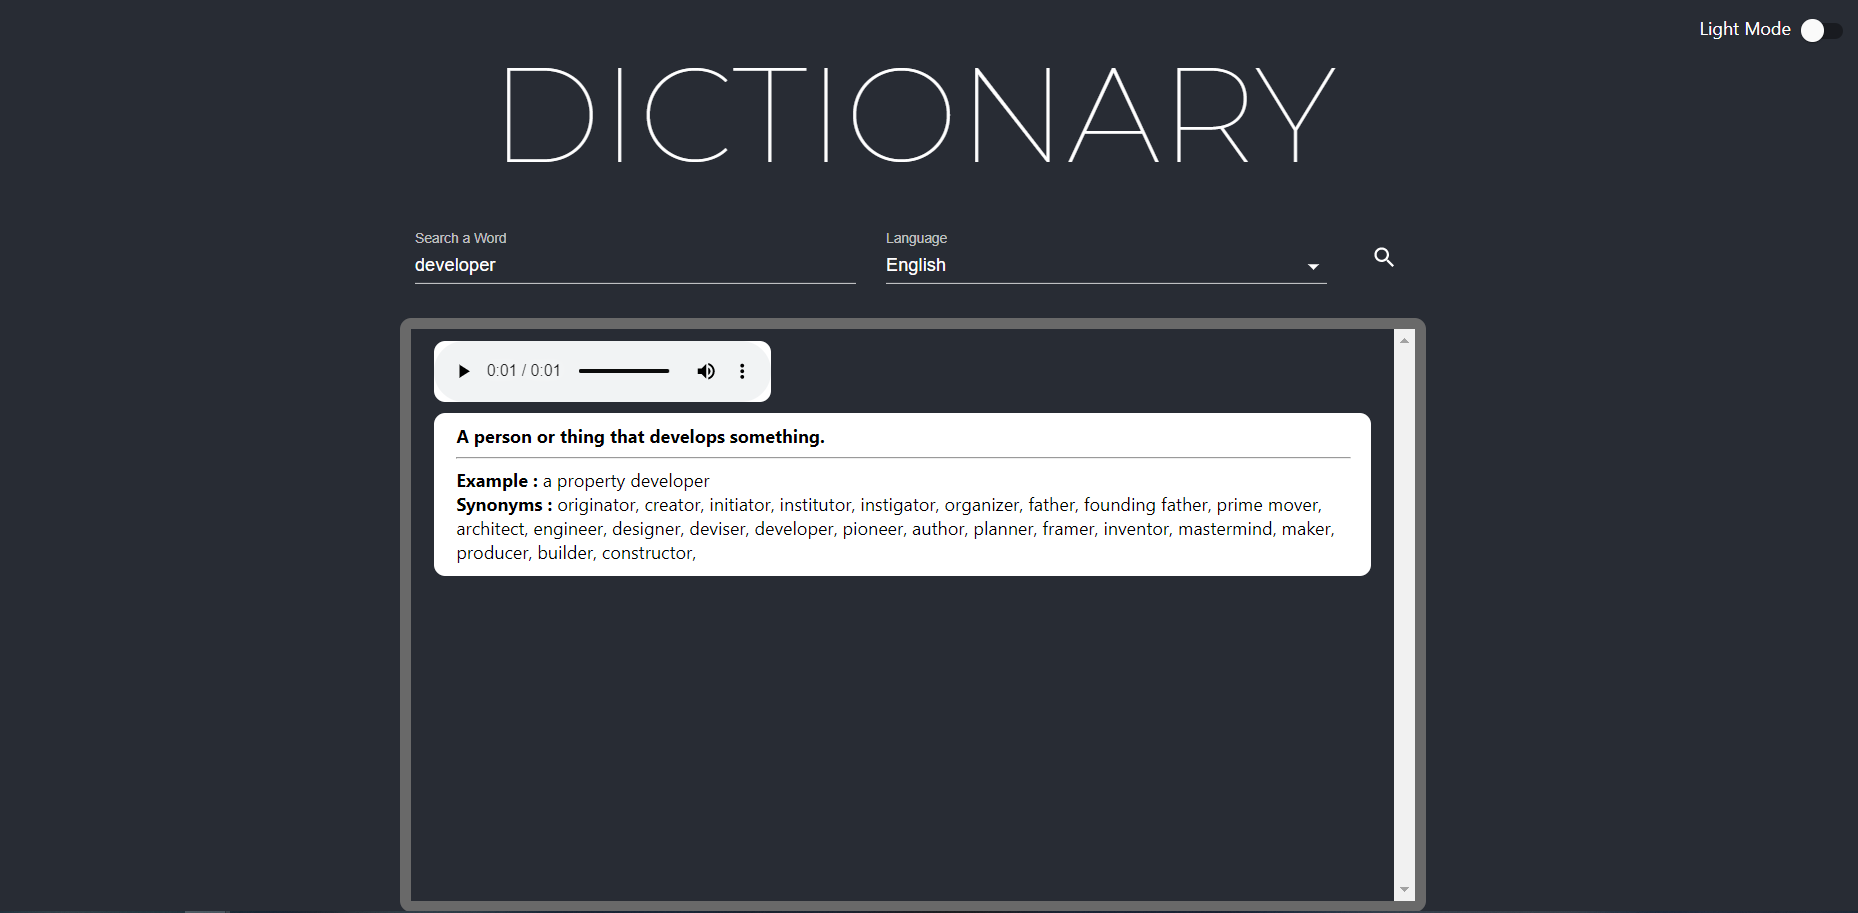
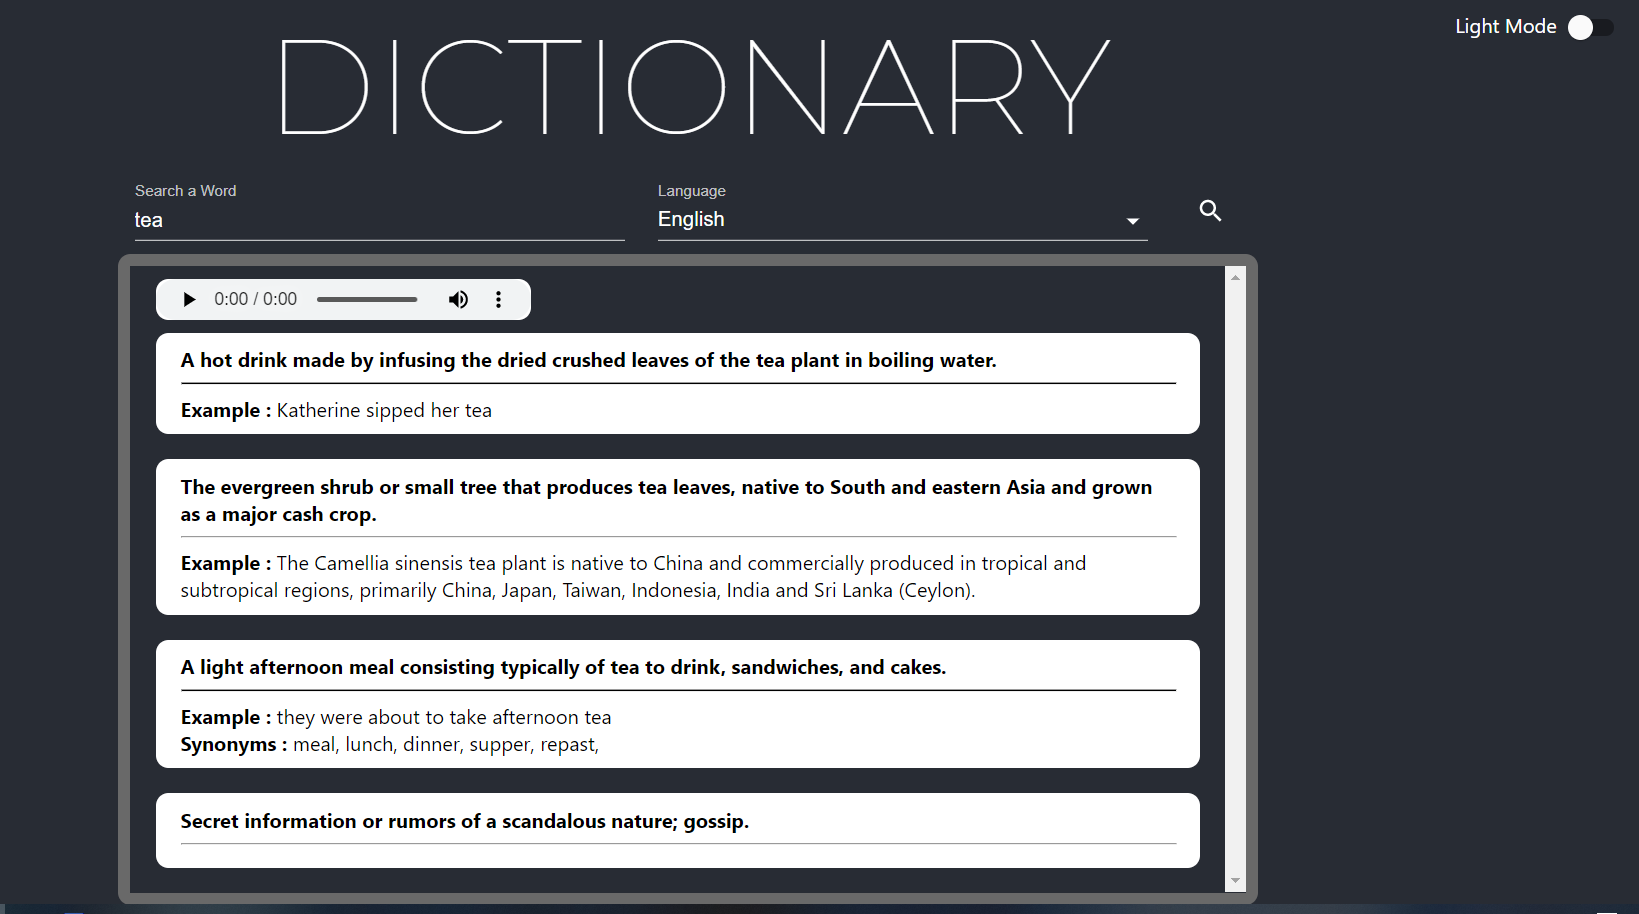
gh pages setup

diff --git a/src/components/Definitions/Definitions.css b/src/components/Definitions/Definitions.css
@@ -3,7 +3,7 @@
   flex-direction: column;
   overflow-y: scroll;
   scrollbar-width: thin;
-  height: 60vh;
+  height: 80vh;
   border: 10px solid rgb(105, 105, 105);
   border-radius: 10px;
   padding: 10px 20px;
@@ -19,7 +19,7 @@
   .meanings {
     overflow: scroll;
     overflow-x: hidden;
-    height: 60vh;
+    height: 80vh;
   }
 }
 .singleMean {
